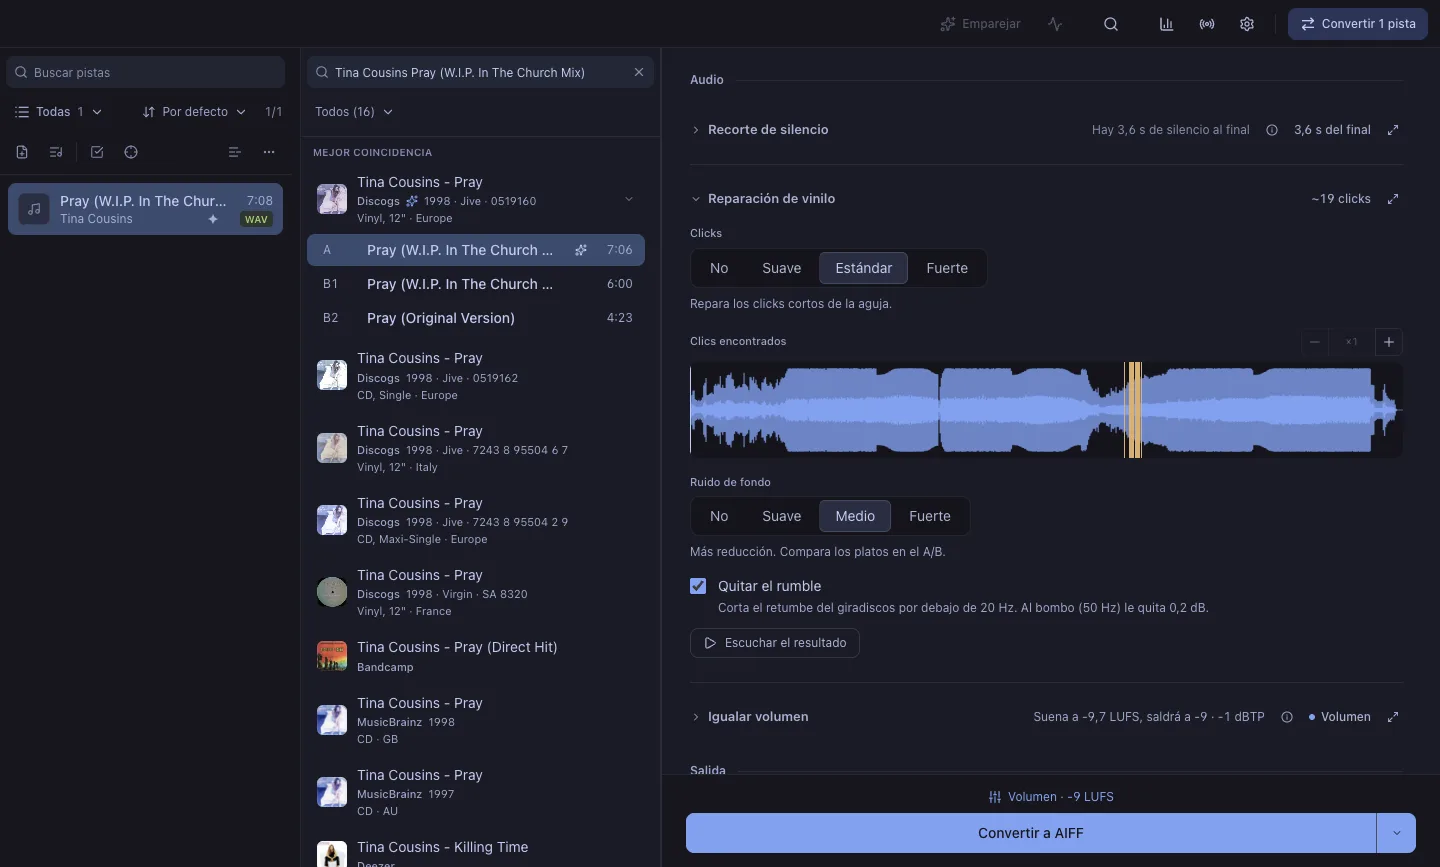
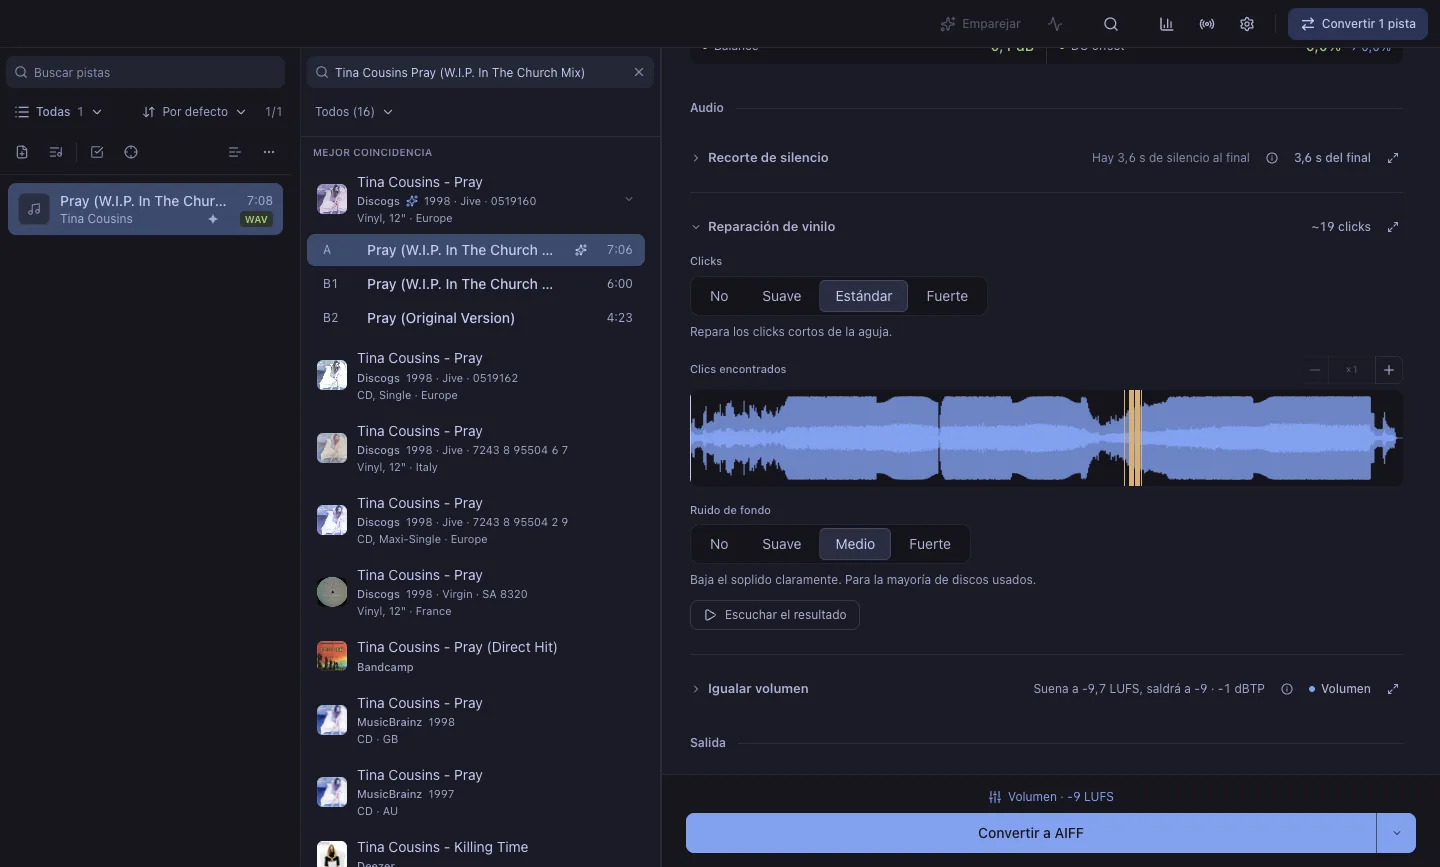
Drop the rumble checkbox from the site's vinyl scene, guide and recipe now that every noise step cuts it

diff --git a/apps/web/src/components/scenes/DeclickScene.tsx b/apps/web/src/components/scenes/DeclickScene.tsx
@@ -6,17 +6,16 @@ import { DECLICK_ENVELOPE, DECLICK_MARKS } from '../../lib/waveforms'
 import { AppWave, EASE, EditorPanel, Glyph, ICONS, SceneCursor, Segmented } from './AppChrome'
 
 // The app's vinyl repair section: the clicks it found marked on the strip, "Standard"
-// clicks, "Medium" background noise and the rumble cut chosen in turn, and "Listen to
-// the result" playing the repaired strip through.
+// clicks and "Medium" background noise chosen in turn, and "Listen to the result"
+// playing the repaired strip through.
 export default function DeclickScene() {
   const { t } = useTranslation()
   const ref = useRef<HTMLDivElement>(null)
   const panel = useRef<HTMLDivElement>(null)
   const standard = useRef<HTMLSpanElement>(null)
   const noise = useRef<HTMLSpanElement>(null)
-  const rumble = useRef<HTMLSpanElement>(null)
   const listen = useRef<HTMLSpanElement>(null)
-  const [targets] = useState(() => ({ standard, noise, rumble, listen }))
+  const [targets] = useState(() => ({ standard, noise, listen }))
   const frame = declickFrame(useSceneProgress(ref, 6500))
   const on = frame.mode === 'standard'
 
@@ -39,7 +38,7 @@ export default function DeclickScene() {
           refs={{ 2: standard }}
         />
         <p className="mt-2.5 text-[11.5px] text-muted">{t('home.declick.found')}</p>
-        <div className="relative mt-1.5 h-14 overflow-hidden rounded-md bg-bg2">
+        <div className="relative mt-1.5 h-16 overflow-hidden rounded-md bg-bg2">
           <AppWave values={DECLICK_ENVELOPE} />
           {DECLICK_MARKS.map((m) => (
             <i
@@ -67,16 +66,6 @@ export default function DeclickScene() {
           active={frame.noise === 'medium' ? 2 : 0}
           refs={{ 2: noise }}
         />
-        <span ref={rumble} className="mt-2.5 flex w-fit items-center gap-2 text-xs text-fg">
-          <i
-            className={`flex size-3.5 items-center justify-center rounded-[4px] border transition-colors duration-200 ${
-              frame.rumble ? 'border-blue bg-blue text-bg' : 'border-[#737aa2]'
-            }`}
-          >
-            {frame.rumble && <Glyph size={10}>{ICONS.check}</Glyph>}
-          </i>
-          {t('home.declick.rumble')}
-        </span>
         <span
           ref={listen}
           className={`mt-2.5 inline-flex h-7 items-center gap-1.5 rounded-[7px] border border-line px-2.5 text-xs transition-colors duration-200 ${

diff --git a/apps/web/src/lib/scenes.ts b/apps/web/src/lib/scenes.ts
@@ -190,10 +190,9 @@ export function qualityFrame(t: number): QualityFrame {
 
 /* ---------------------------------------------------------------- 04 · declick */
 
-const DECLICK_CLICK = 0.18
-const DECLICK_NOISE = 0.32
-const DECLICK_RUMBLE = 0.44
-const DECLICK_LISTEN = 0.56
+const DECLICK_CLICK = 0.2
+const DECLICK_NOISE = 0.36
+const DECLICK_LISTEN = 0.52
 const DECLICK_PLAY_ENDS = 0.95
 // How long the cursor rests on a control before pressing it.
 const DECLICK_AIM = 0.1
@@ -201,16 +200,15 @@ const DECLICK_AIM = 0.1
 export interface DeclickFrame {
   mode: 'off' | 'standard'
   noise: 'off' | 'medium'
-  rumble: boolean
-  cursor: 'standard' | 'noise' | 'rumble' | 'listen' | null
+  cursor: 'standard' | 'noise' | 'listen' | null
   listen: boolean
   playhead: number
   marks: number
 }
 
 // The app's vinyl repair section: the clicks it found are marked on the strip, then
-// "Standard" clicks, "Medium" background noise and the rumble cut get chosen in the
-// order they sit in the app, and "Listen to the result" plays the repaired strip through.
+// "Standard" clicks and "Medium" background noise get chosen in the order they sit in
+// the app, and "Listen to the result" plays the repaired strip through.
 export function declickFrame(t: number): DeclickFrame {
   const p = clamp(t)
   const on = p >= DECLICK_CLICK
@@ -218,16 +216,13 @@ export function declickFrame(t: number): DeclickFrame {
   return {
     mode: on ? 'standard' : 'off',
     noise: p >= DECLICK_NOISE ? 'medium' : 'off',
-    rumble: p >= DECLICK_RUMBLE,
     cursor: aiming(DECLICK_CLICK, 0.06)
       ? 'standard'
       : aiming(DECLICK_NOISE)
         ? 'noise'
-        : aiming(DECLICK_RUMBLE)
-          ? 'rumble'
-          : aiming(DECLICK_LISTEN)
-            ? 'listen'
-            : null,
+        : aiming(DECLICK_LISTEN)
+          ? 'listen'
+          : null,
     listen: on,
     playhead: clamp((p - DECLICK_LISTEN) / (DECLICK_PLAY_ENDS - DECLICK_LISTEN)),
     marks: DECLICK_MARKS.length,

diff --git a/apps/web/src/lib/scenes.test.ts b/apps/web/src/lib/scenes.test.ts
@@ -144,8 +144,8 @@ describe('declickFrame', () => {
     expect(firstAt((f) => f.cursor === 'listen')).toBeLessThan(playing)
   })
 
-  // The section now fixes three things; the scene shows each one being chosen, in the
-  // order they sit in the app, each pointed at before it switches.
+  // The section fixes two things; the scene shows each one being chosen, in the order
+  // they sit in the app, each pointed at before it switches.
   it('picks the background noise after the clicks, pointing at it first', () => {
     expect(declickFrame(0).noise).toBe('off')
     expect(declickFrame(1).noise).toBe('medium')
@@ -156,19 +156,9 @@ describe('declickFrame', () => {
     expect(pointing).toBeLessThan(picked)
   })
 
-  it('ticks the rumble cut after the noise, pointing at it first', () => {
-    expect(declickFrame(0).rumble).toBe(false)
-    expect(declickFrame(1).rumble).toBe(true)
-    const ticked = firstAt((f) => f.rumble)
-    expect(ticked).toBeGreaterThan(firstAt((f) => f.noise === 'medium'))
-    const pointing = firstAt((f) => f.cursor === 'rumble')
-    expect(pointing).toBeGreaterThan(-1)
-    expect(pointing).toBeLessThan(ticked)
-  })
-
-  // What plays is the result of all three, so it only starts once they are set.
+  // What plays is the result of both, so it only starts once they are set.
   it('plays the result only after every fix is chosen', () => {
-    expect(firstAt((f) => f.playhead > 0)).toBeGreaterThan(firstAt((f) => f.rumble))
+    expect(firstAt((f) => f.playhead > 0)).toBeGreaterThan(firstAt((f) => f.noise === 'medium'))
   })
 
   it('plays forward to the end of the strip', () => {

diff --git a/apps/web/src/components/scenes/AppChrome.tsx b/apps/web/src/components/scenes/AppChrome.tsx
@@ -96,7 +96,6 @@ export const ICONS = {
     <path d="M12 3v4M12 17v4M3 12h4M17 12h4M6 6l2.5 2.5M15.5 15.5 18 18M6 18l2.5-2.5M15.5 8.5 18 6" />
   ),
   play: <path d="M7 4v16l13-8z" />,
-  check: <path d="M20 6 9 17l-5-5" />,
   scissors: (
     <>
       <circle cx="6" cy="6" r="3" />
